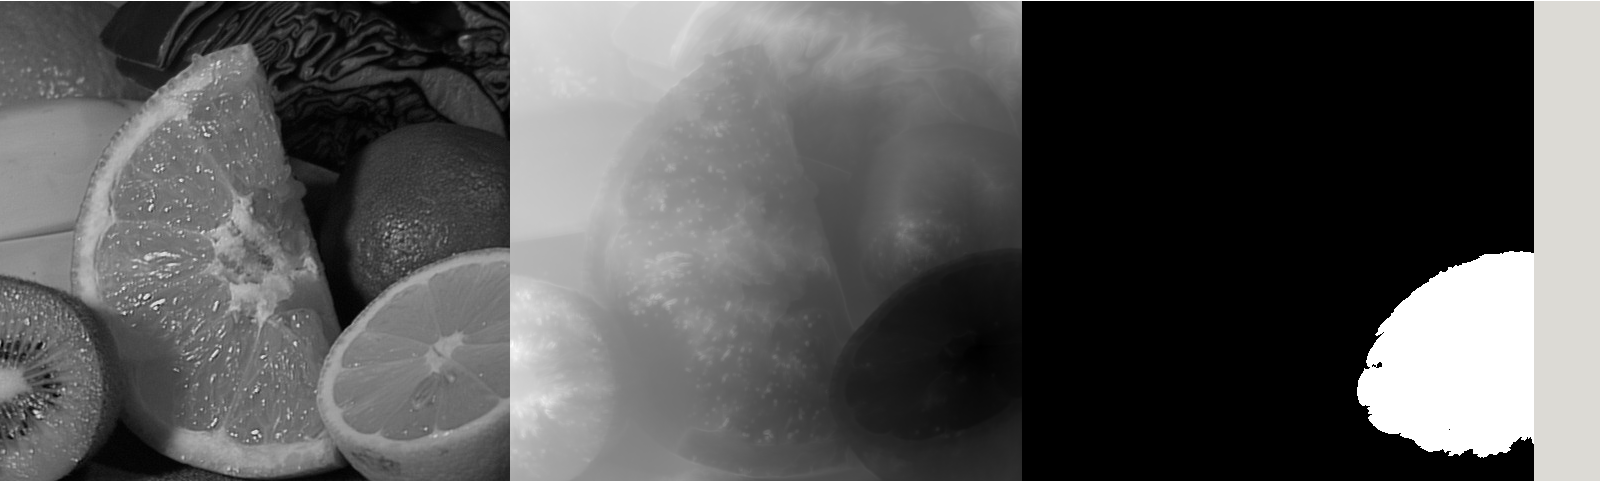
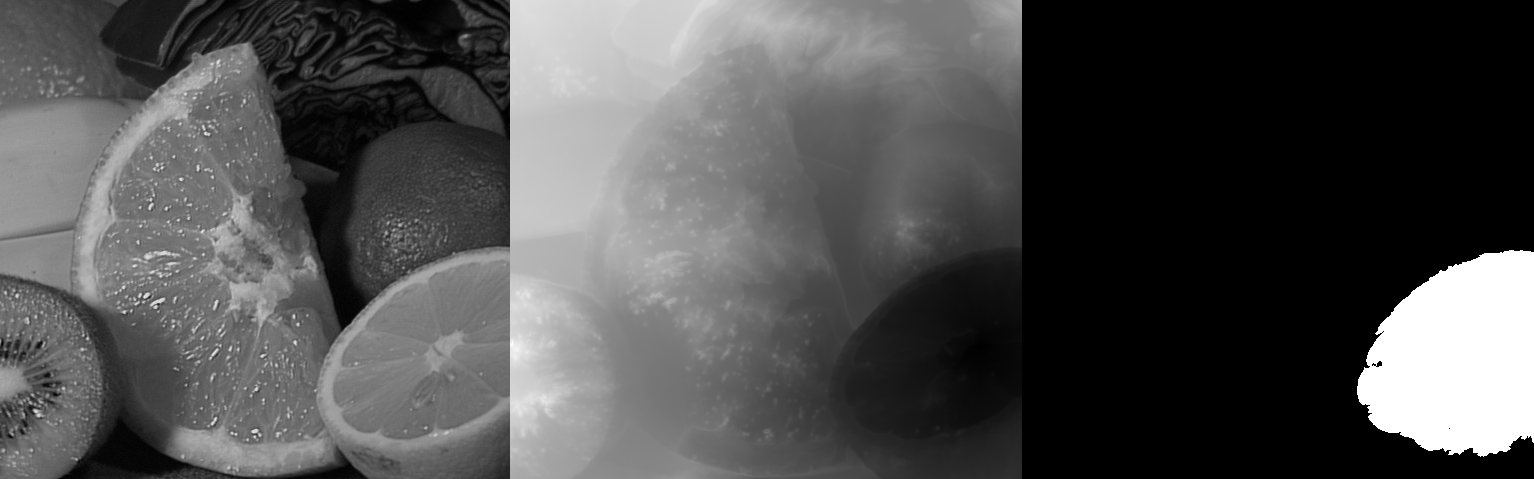
Cropped image, fixed typo, updated README

diff --git a/fmmcv.hpp b/fmmcv.hpp
@@ -19,7 +19,7 @@
  *                  output)
  *  > returns an image, either geodesic distance map or, if
  *    segmentation_threshold is given, a segmentation mask
- *  image: input image (OpenCV Mator)
+ *  image: input image (OpenCV Mat)
  *  seeds: std::vector of OpenCV Points
  *  weight_map_type: transformation to apply to input image to use as FMM
 *                    weight function. Can be one of:

diff --git a/README.md b/README.md
@@ -9,8 +9,10 @@ This is a single-file header-only library without any dependencies. The CMakeLis
 
 ## Samples
 
+Computing distances/segmenting grayscale image (OpenCV sample image: fruit)
 ![Grayscale image segmentation (from OpenCV demo image)](/readme-images/graysegm.png)
 
+Computing distances/segmenting depth image (picture of me captured by Azure Kinect)
 ![Depth image segmentation (picture of me)](/readme-images/depthsegm.png)
 
 ## Function documentation
